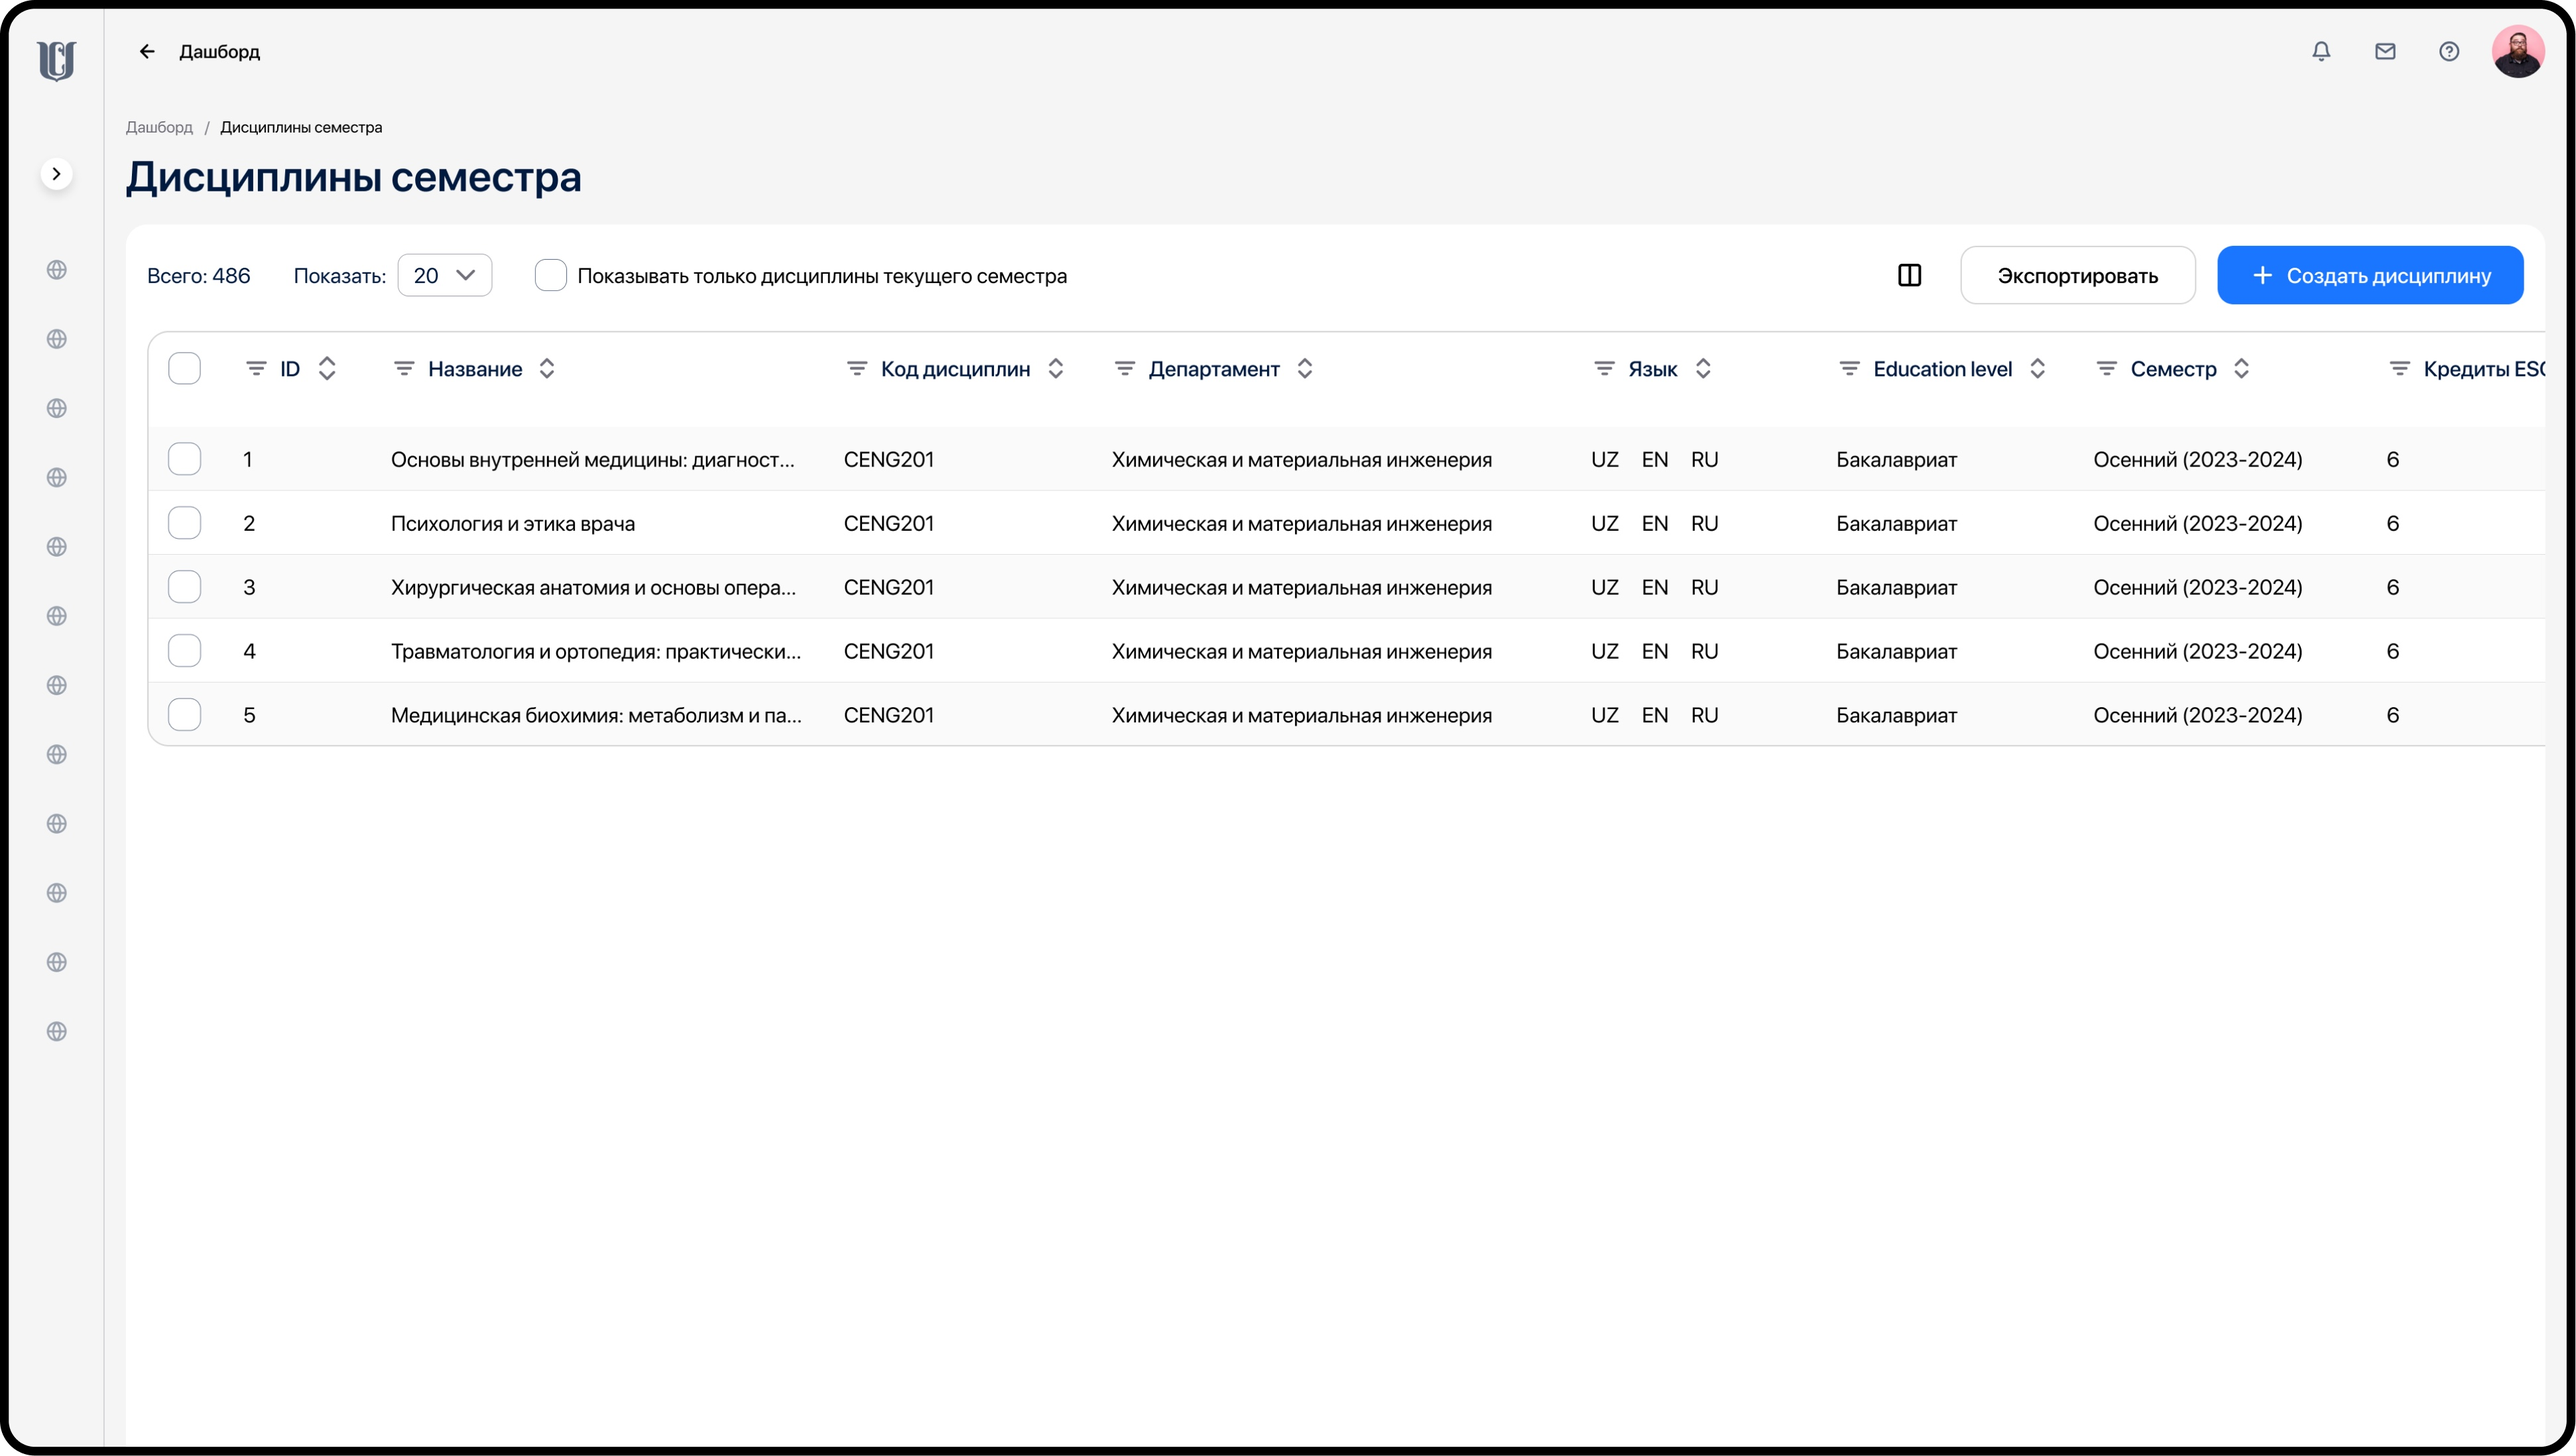
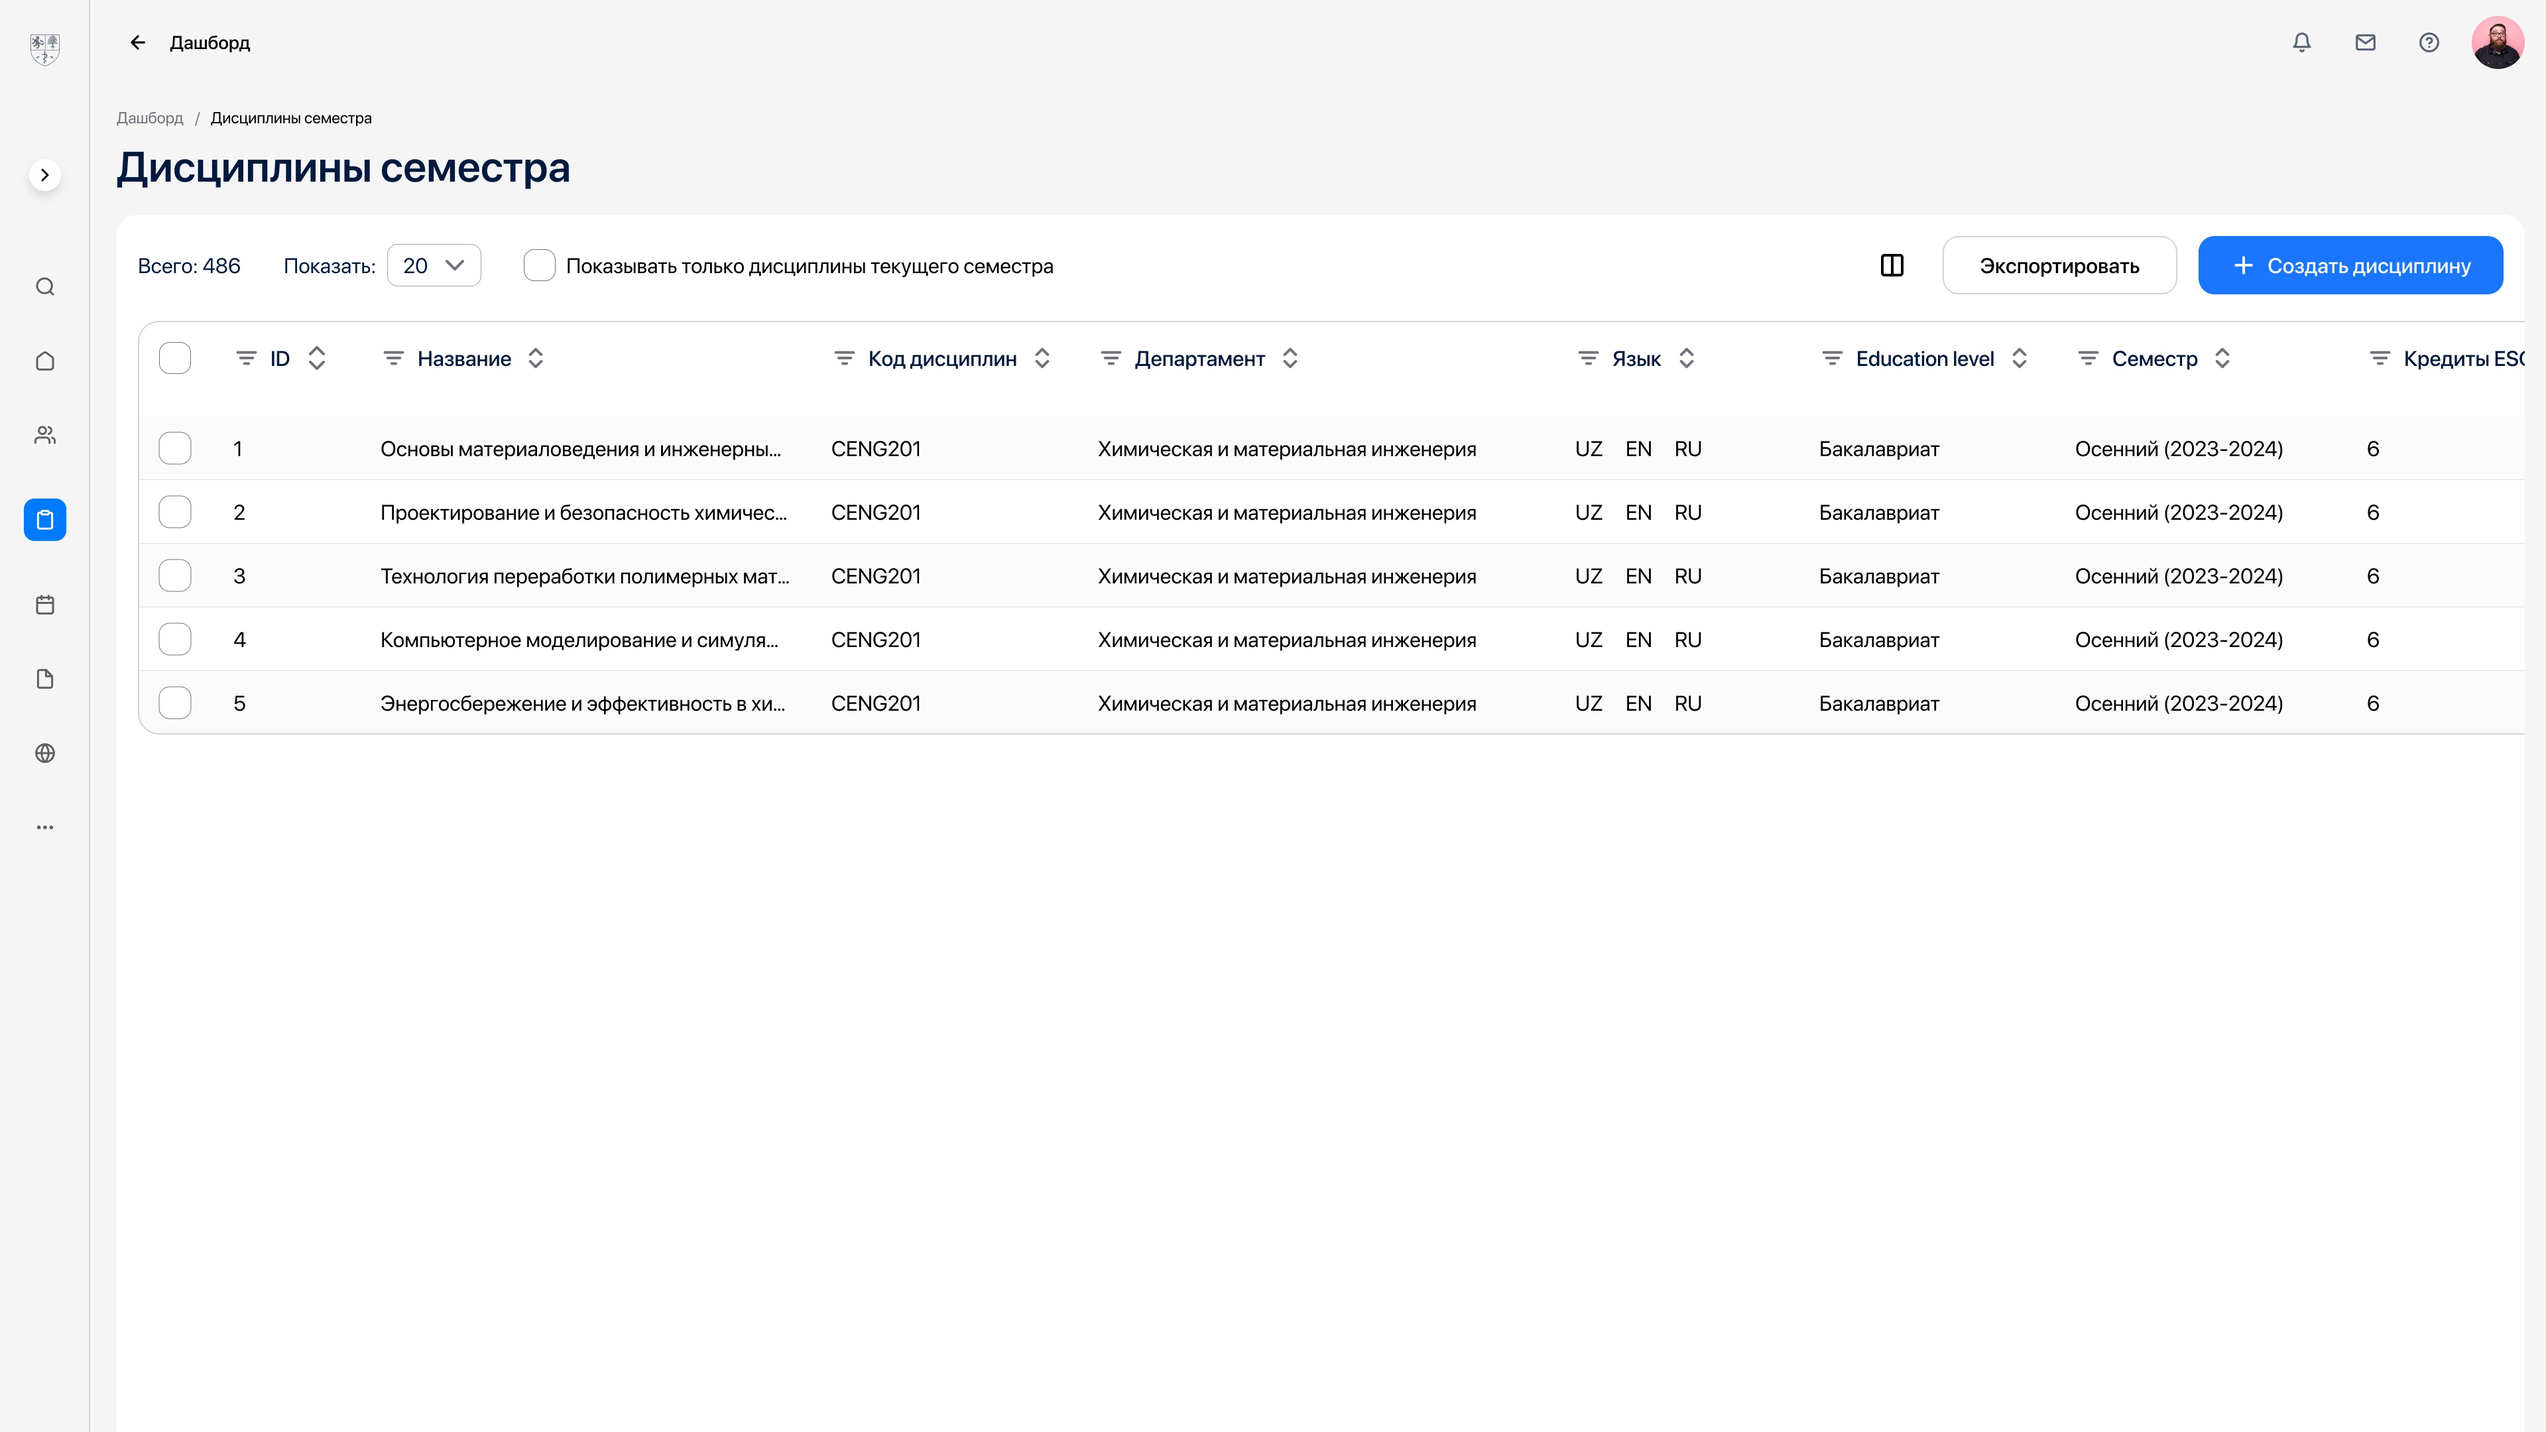
Replace first Hero Study screen with updated Figma frame
Swap hs-01 (Дисциплины семестра) for the refreshed frame 3066-87536,
exported at 2x (3840x2160). Bump its cache-bust to ?v=3.

diff --git a/projects.js b/projects.js
@@ -262,7 +262,7 @@ window.PROJECTS = {
           },
         ],
       },
-      { media: { kind: "image", src: "assets/hs-01.jpg?v=2" } },
+      { media: { kind: "image", src: "assets/hs-01.jpg?v=3" } },
       { media: { kind: "image", src: "assets/hs-02.jpg?v=2" } },
       { media: { kind: "image", src: "assets/hs-03.jpg?v=2" } },
       { media: { kind: "image", src: "assets/hs-04.jpg?v=2" } },

diff --git a/case.html b/case.html
@@ -39,7 +39,7 @@
   </footer>
 
   <script src="https://cdn.jsdelivr.net/npm/lenis@1.1.14/dist/lenis.min.js"></script>
-  <script src="projects.js?v=41"></script>
+  <script src="projects.js?v=42"></script>
   <script src="case.js?v=16"></script>
   <script src="script.js?v=9"></script>
 </body>
